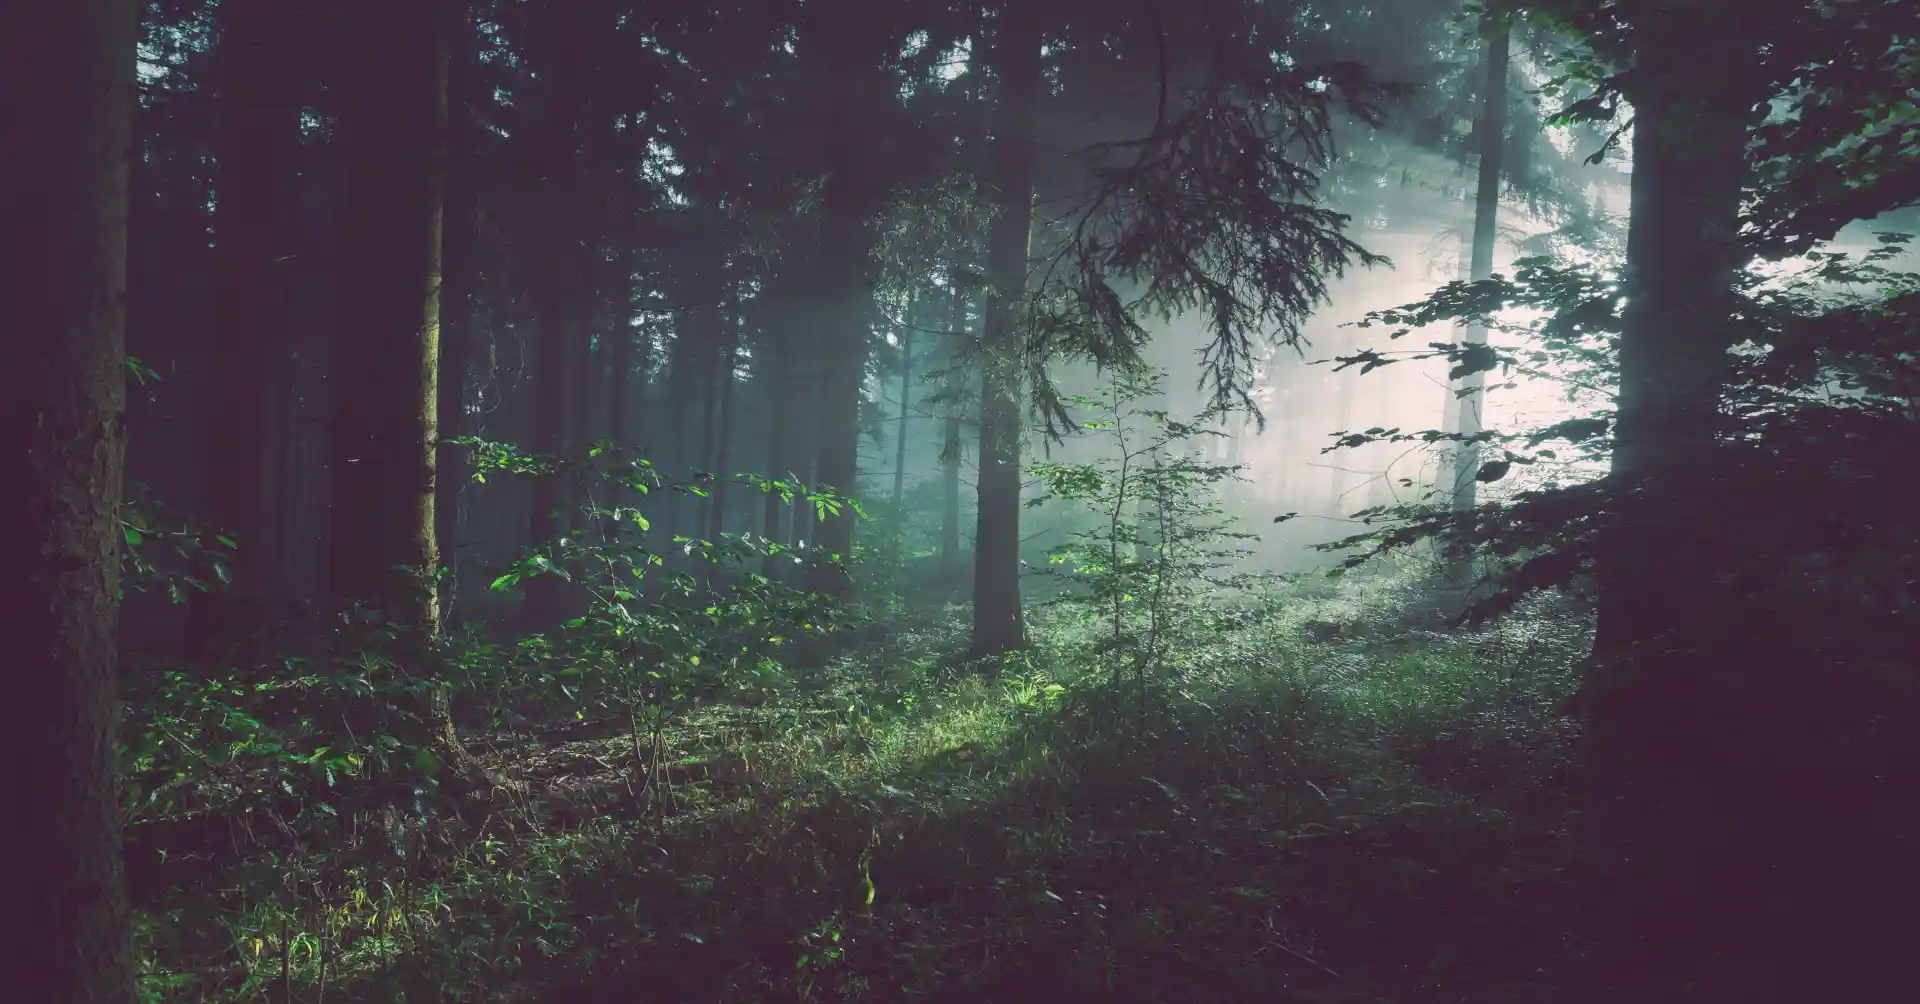
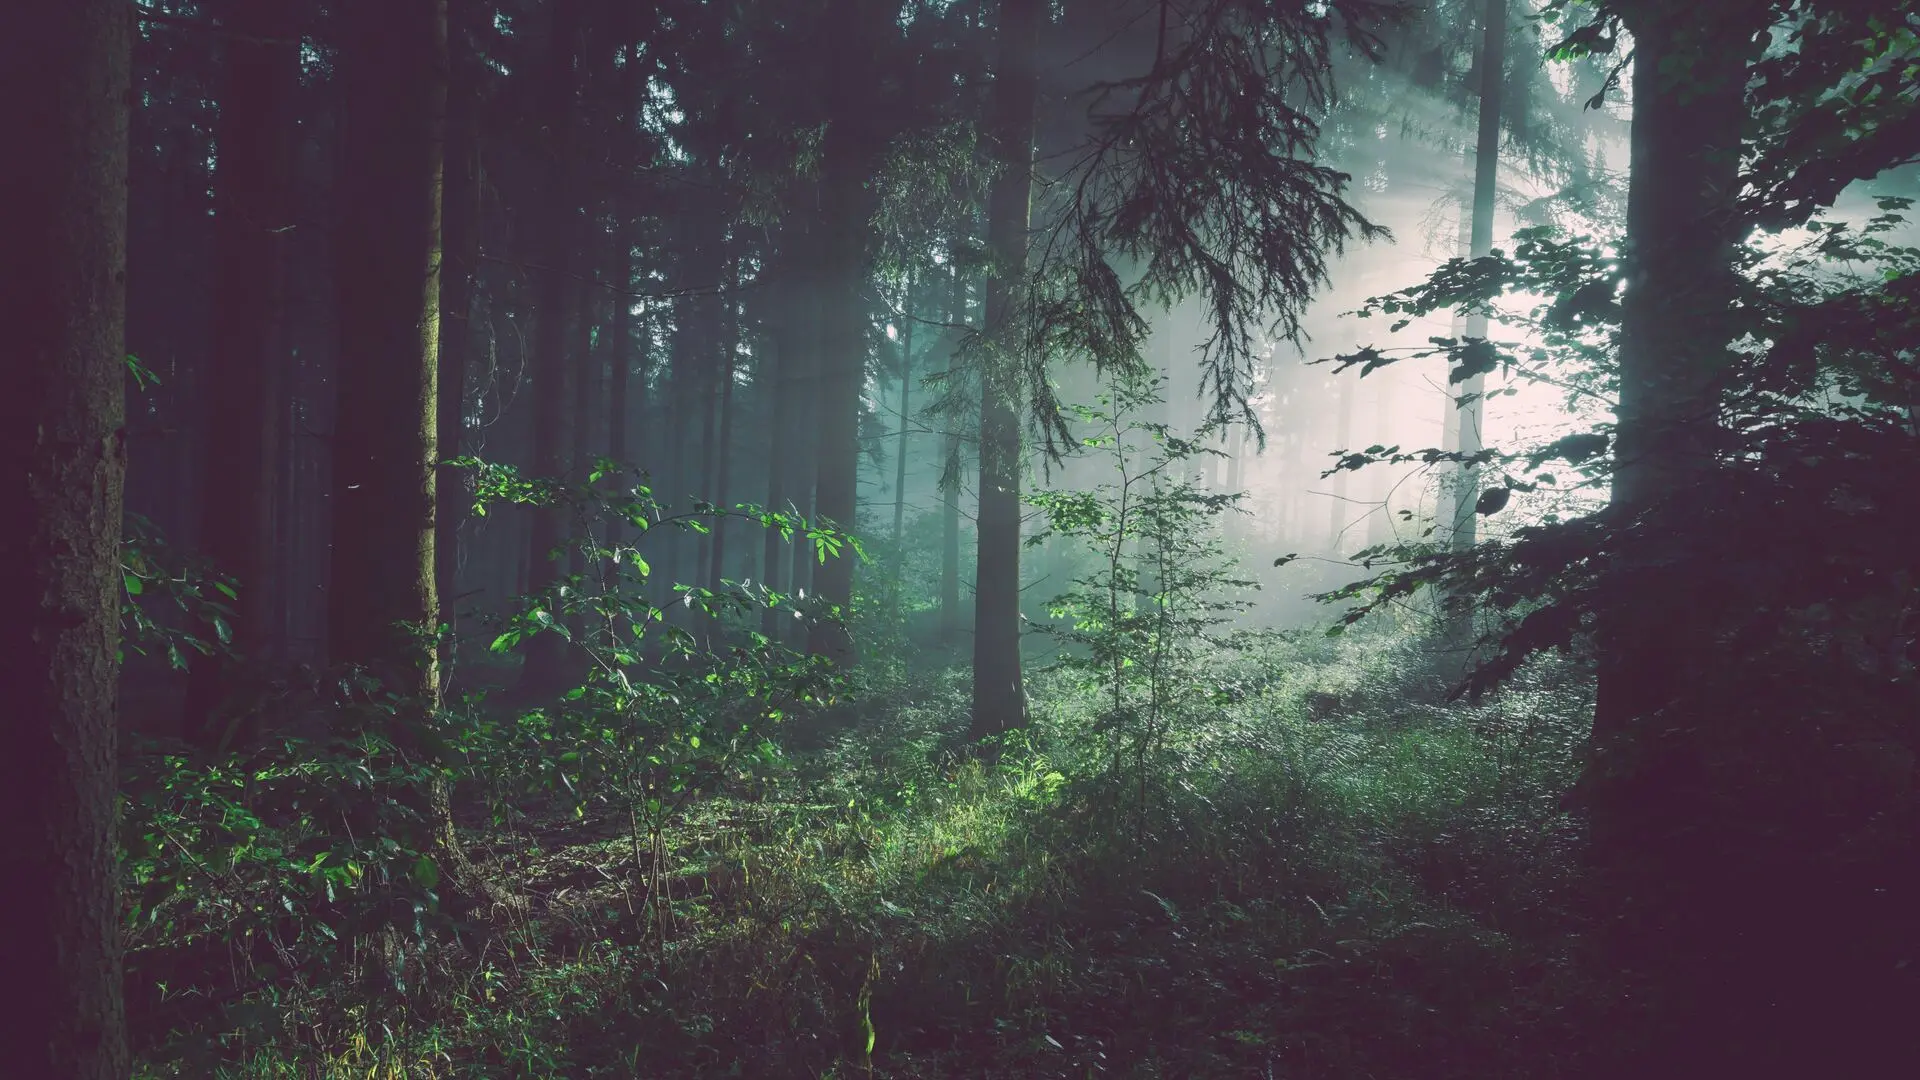
fix: change static images

diff --git a/pages/about-us/index.vue b/pages/about-us/index.vue
@@ -54,7 +54,7 @@ watch(shopsCounter, (newCounterValue) => {
 
 const heroName = "aboutUs"
 const heroDescription = "aboutUsPageDescription"
-const heroImage = "/aboutUs/aboutUs-bg.png"
+const heroImage = "/aboutUs/aboutUs-bg.webp"
 
 </script>
 
@@ -69,7 +69,7 @@ const heroImage = "/aboutUs/aboutUs-bg.png"
           }}</h5>
       </div>
       <div class="py-20 lg:py-28 md:w-1/2">
-        <nuxt-img class="h-[345px] lg:h-[665px] object-cover w-full" src="/aboutUs/about-us-2.png" alt="aboutUs-1"/>
+        <nuxt-img class="h-[345px] lg:h-[665px] object-cover w-full" src="/aboutUs/about-us-2.webp" alt="aboutUs-1"/>
       </div>
     </div>
 
@@ -94,7 +94,7 @@ const heroImage = "/aboutUs/aboutUs-bg.png"
   <section class="main-container">
     <div class="main-container flex md:flex-row flex-col-reverse justify-between gap-x-16 lg:gap-x-24">
       <div class="py-24 md:py-20 lg:py-28 md:w-1/2 flex items-center">
-        <nuxt-img class="h-[345px] lg:h-[665px] object-cover w-full" src="/aboutUs/about-us-3.png" alt="aboutUs-1"/>
+        <nuxt-img class="h-[345px] lg:h-[665px] object-cover w-full" src="/aboutUs/about-us-3.webp" alt="aboutUs-1"/>
       </div>
       <div class="flex flex-col pt-24 md:pt-0 justify-center md:w-1/2 gap-y-4 lg:gap-y-10">
         <h2> {{$t('woodWorkingTechnologiesTitle')}}</h2>

diff --git a/pages/delivery-and-installation/index.vue b/pages/delivery-and-installation/index.vue
@@ -3,7 +3,7 @@ import BaseHeroWithoutDescription from "~/components/base/BaseHeroWithoutDescrip
 
 const heroName = "deliveryInstallationPageHeader"
 const heroDescription = "toDesignersPageDescription"
-const heroImage = "/delivery-and-installation/delivery-installation-bg.png"
+const heroImage = "/delivery-and-installation/delivery-installation-bg.webp"
 </script>
 
 <template>

diff --git a/pages/systems/swing/index.vue b/pages/systems/swing/index.vue
@@ -6,7 +6,7 @@ import OpeningType from "~/components/pages/systems/OpeningType.vue";
 import SystemsModal from "#build/components/pop-ups/SystemsModal.vue";
 
 const heroName = "systemsPageHeader"
-const heroImage = "/systems/systems-bg.png"
+const heroImage = "/systems/systems-bg.webp"
 
 const swingSystems = ref([])
 const shouldOpenModal = ref(0)

diff --git a/pages/sale/index.vue b/pages/sale/index.vue
@@ -6,7 +6,7 @@ import {useSaleStore} from "~/stores/saleStore.js";
 const saleStore = useSaleStore()
 const heroName = "Акции"
 const heroDescription = ""
-const heroImage = "/sale/sale-bg.png"
+const heroImage = "/sale/sale-bg.webp"
 
 // const now = new Date();
 // const newYear = new Date(now.getFullYear() + 1, 0, 1);

diff --git a/pages/to-designers/index.vue b/pages/to-designers/index.vue
@@ -3,7 +3,7 @@ import BaseHeroWithoutDescription from "~/components/base/BaseHeroWithoutDescrip
 
 const heroName = "toDesignersHeader"
 const heroDescription = "toDesignersPageDescription"
-const heroImage = "/to-designers/to-designers-bg.png"
+const heroImage = "/to-designers/to-designers-bg.webp"
 </script>
 
 <template>

diff --git a/pages/door-hardware/index.vue b/pages/door-hardware/index.vue
@@ -20,7 +20,7 @@ const footerIsVisible = useElementVisibility(footerElement)
 
 const heroName = "doorHardware"
 const heroDescription = "doorHardwarePageDescription"
-const heroImage = "/door-hardware/door-hardware.jpg"
+const heroImage = "/door-hardware/door-hardware.webp"
 
 let products = ref([])
 let page = ref(1)

diff --git a/pages/to-dealers/index.vue b/pages/to-dealers/index.vue
@@ -2,7 +2,7 @@
 import BaseHeroWithoutDescription from "~/components/base/BaseHeroWithoutDescription.vue";
 
 const heroName = "toDealersPageHeader"
-const heroImage = "/toDealers/toDealers-bg.png"
+const heroImage = "/toDealers/toDealers-bg.webp"
 </script>
 
 <template>

diff --git a/pages/plinth/index.vue b/pages/plinth/index.vue
@@ -4,7 +4,7 @@ import {baseURL} from "~/config";
 
 const heroName = "plinthHeader"
 const heroDescription = ""
-const heroImage = "/plinth/plinth-bg.png"
+const heroImage = "/plinth/plinth-bg.webp"
 const plinths = ref([])
 
 async function fetchPlinths() {

diff --git a/pages/systems/slide/index.vue b/pages/systems/slide/index.vue
@@ -6,7 +6,7 @@ import OpeningType from "~/components/pages/systems/OpeningType.vue";
 
 
 const heroName = "systemsPageHeader"
-const heroImage = "/systems/systems-bg.png"
+const heroImage = "/systems/systems-bg.webp"
 
 const swingSystems = ref([])
 
